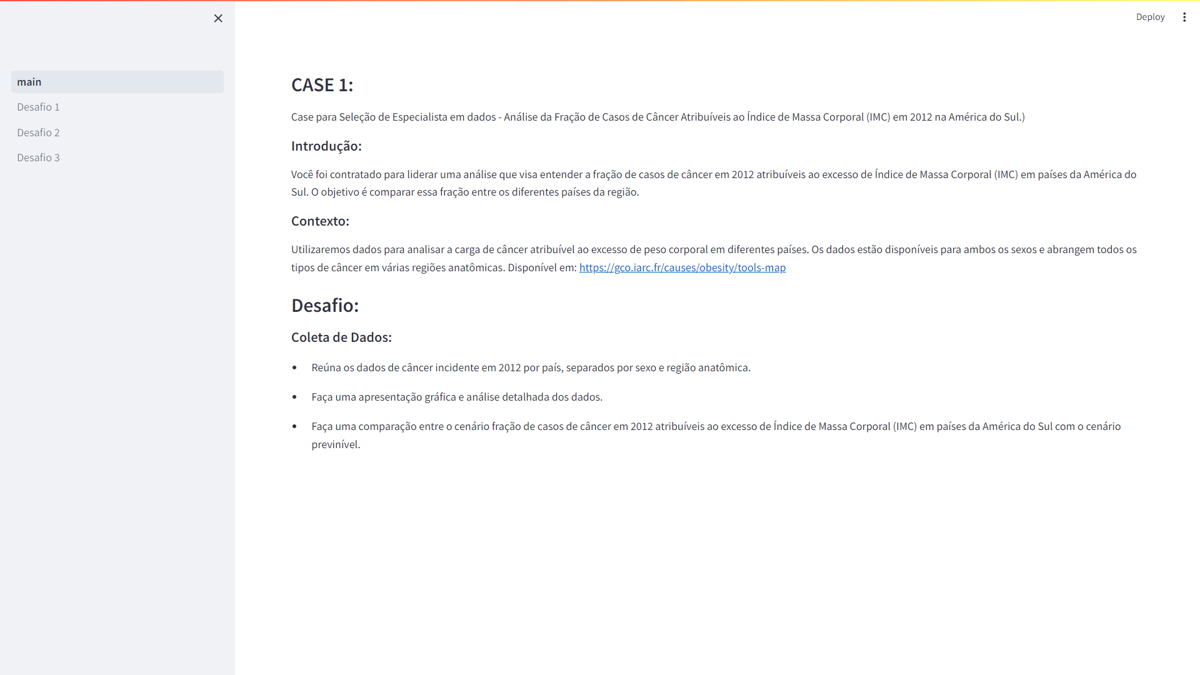
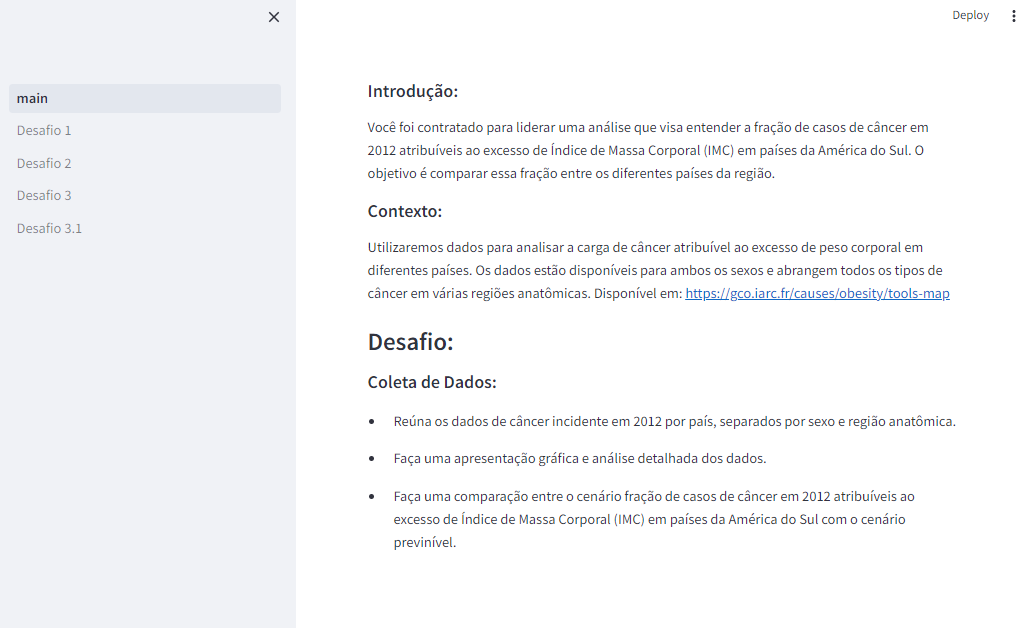
Atualização do main

diff --git a/main.py b/main.py
@@ -8,11 +8,7 @@ con = sqlite3.connect("data/tutorial.db")
 attributable = pd.read_sql('select * from attributable', con=con)
 preventable = pd.read_sql('select * from preventable', con=con)
 
-st.markdown('''### __CASE 1:__
-
-Case para Seleção de Especialista em dados - Análise da Fração de Casos de Câncer Atribuíveis ao Índice de Massa Corporal (IMC) em 2012 na América do Sul.)
-
-##### __Introdução:__
+st.markdown('''##### __Introdução:__
 
 Você foi contratado para liderar uma análise que visa entender a fração de casos de câncer em 2012 atribuíveis ao excesso de Índice de Massa Corporal (IMC) em países da América do Sul. O objetivo é comparar essa fração entre os diferentes países da região.
 
